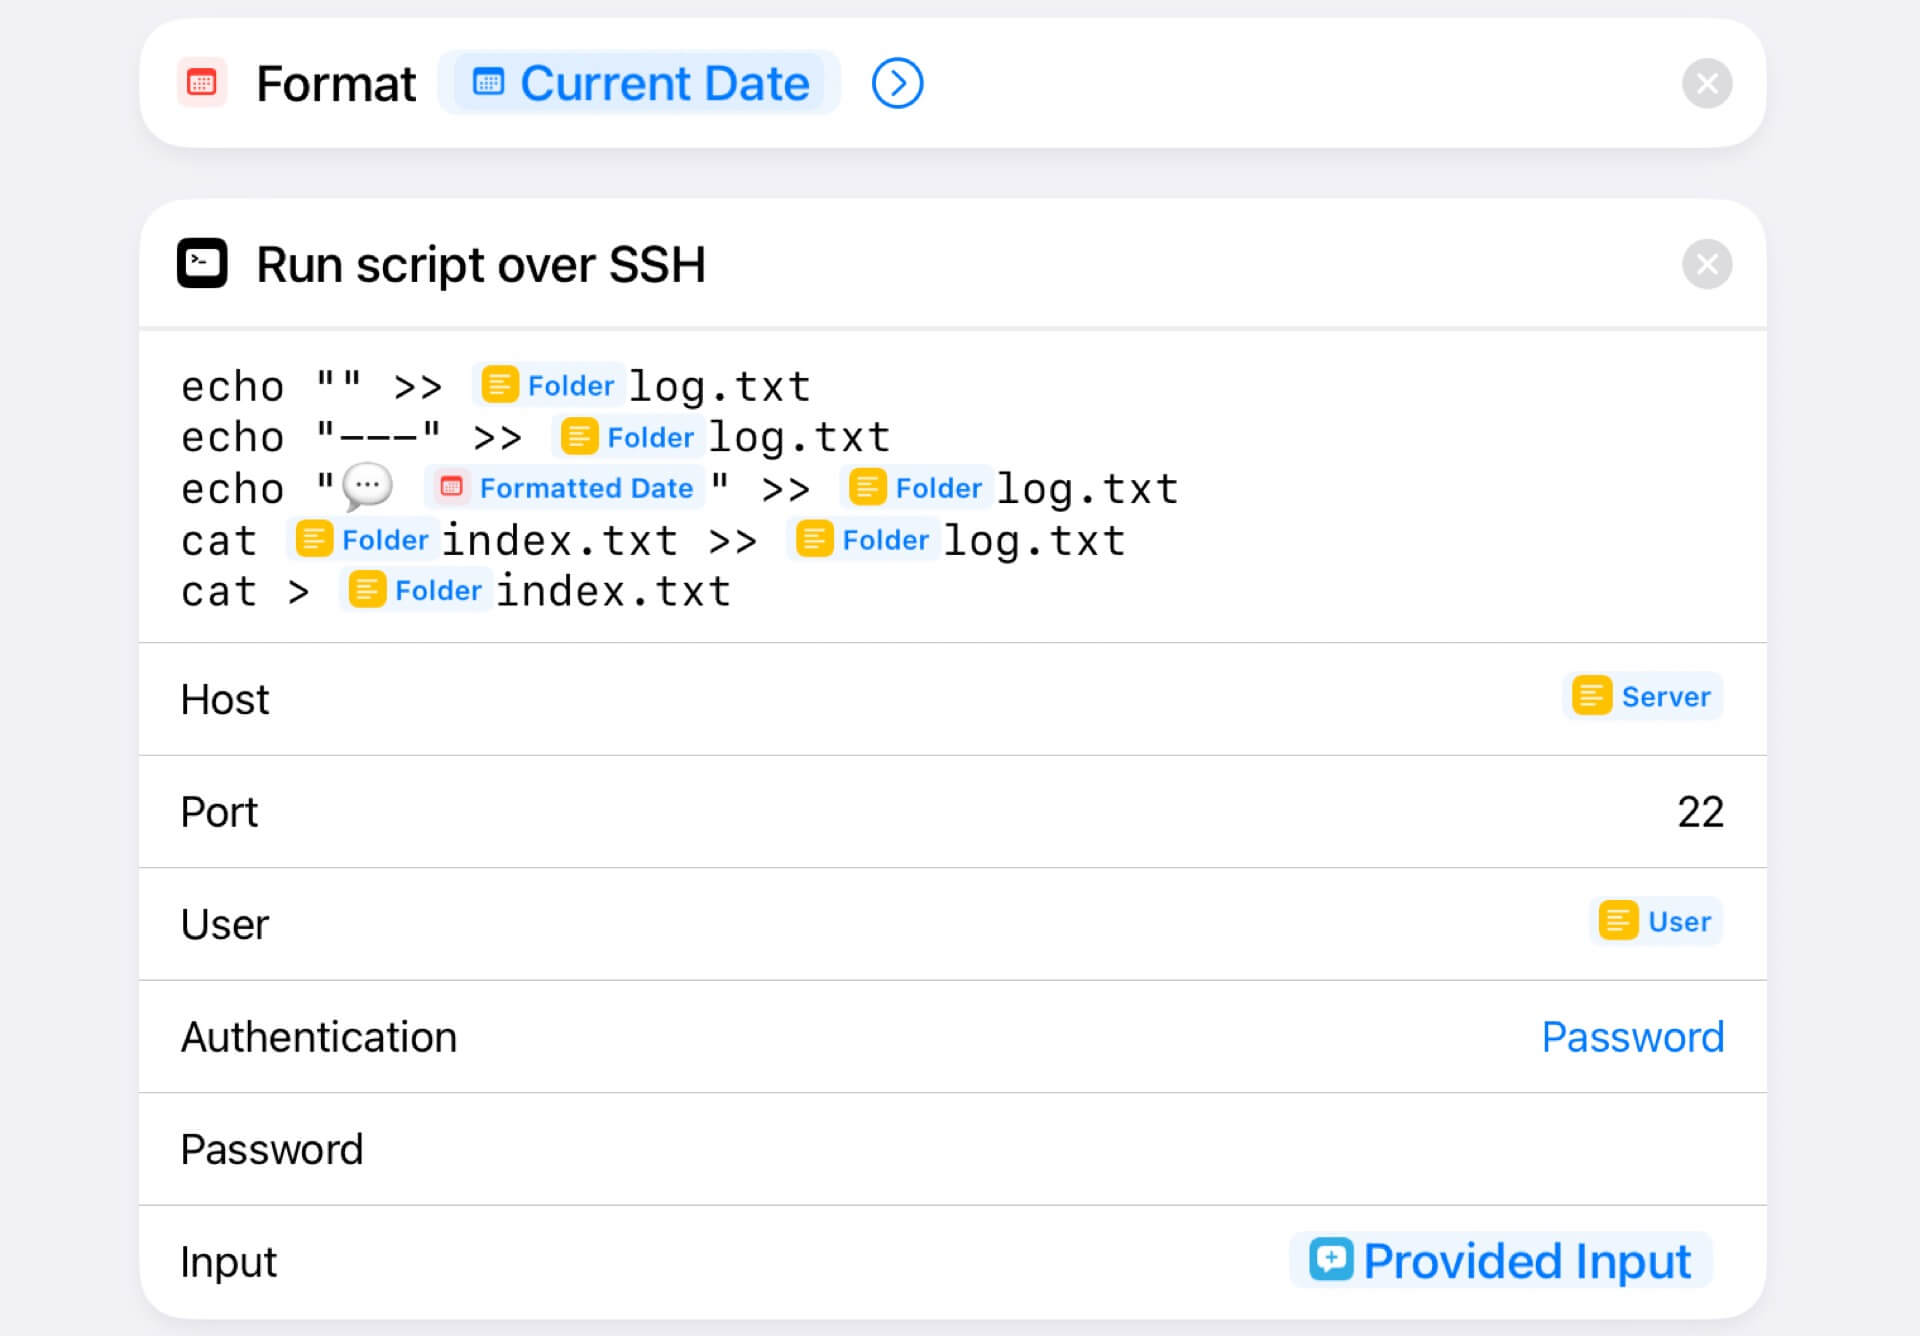
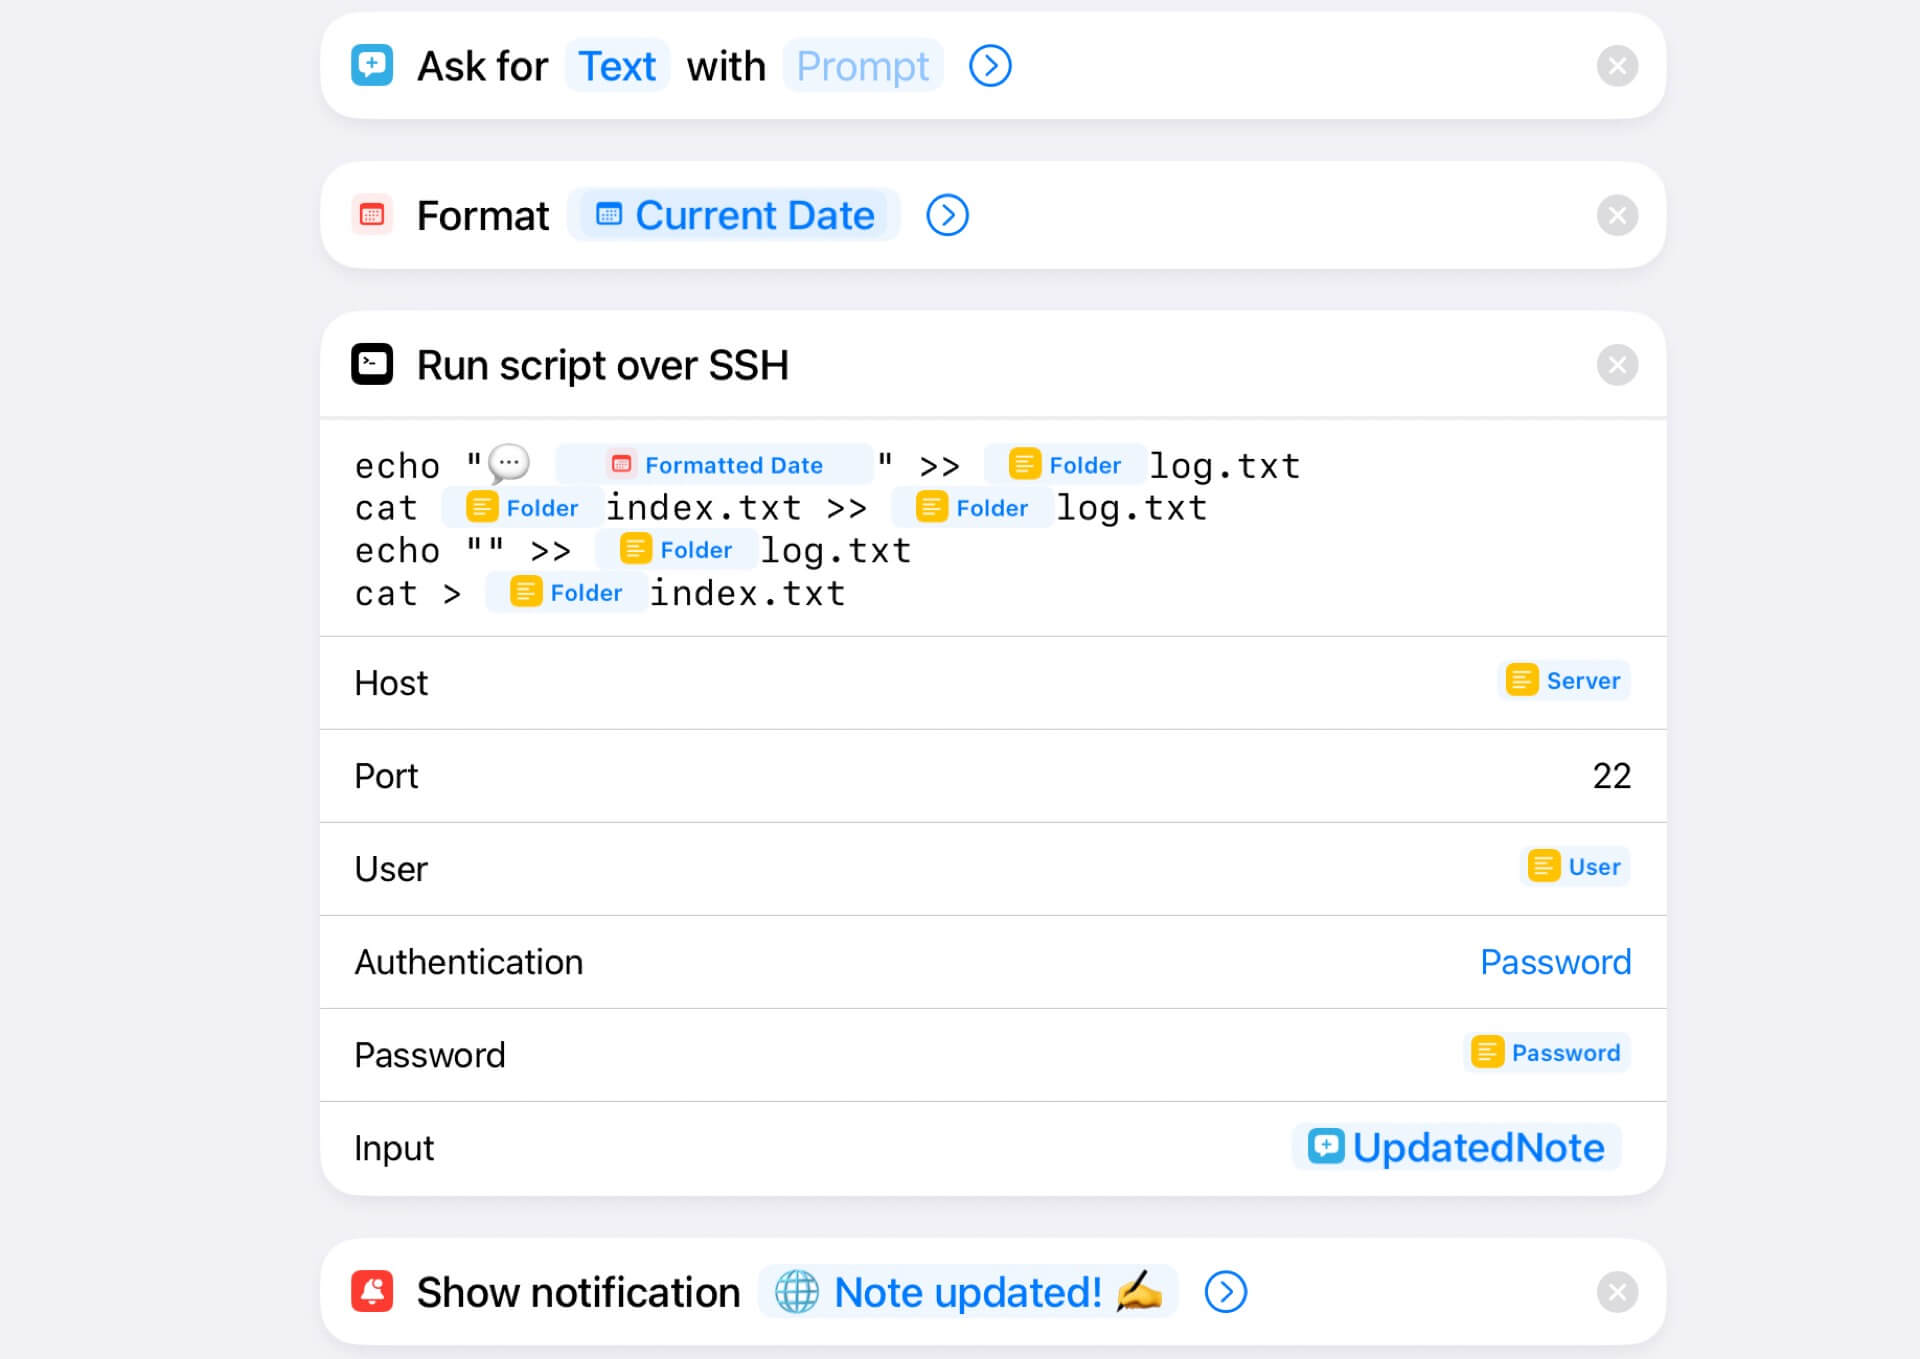
watchnote

diff --git a/en/_posts/2023-12-07-watchnote.md b/en/_posts/2023-12-07-watchnote.md
@@ -1,0 +1,98 @@
+---
+tags: [applewatch,shortcuts]
+cover: "watchnote.jpg"
+---
+
+# WatchNote Siri Shortcut - how to add and view a note on Apple Watch Ultra without an iPhone!
+
+I love the big screen of my new [Apple Watch Ultra 2](/ultra/) and now that I have [Action button](/action/) configured on it, I was thinking of more things I could do with it. I already figured out [how to add a task to Nozbe](/nozbe-add/) but sometimes I just needed to add a note quickly and later retrieve it, without using my [iPhone 15 Pro](/iphone15/). Here's what I came up with:
+
+<!--More-->
+
+![{{ page.title }}](/img/{{ page.cover }})
+
+* TOC
+{:toc}
+
+## What does a "WatchNote" Siri Shortcut do?
+
+This is my use case - I want to be able to launch the Shortcut and **it should show me my note right away**. Only then I'd either be done with it or I can choose to edit this note (and the old note is being copied to a log of old notes) which I can always retrieve later if I want to.
+
+Why do I need this?
+
+- As I was traveling I noticed that very often at AirBNB they'd give us a PIN code to our apartment. I wanted to save it and be able to check it on the watch right before opening the door.
+- As I was [running](/sports/) only with the watch I wanted to be able to just add a mental note if I had a new idea or maybe when I was listening to [a book](/books/) I could quickly dictate a book note 📝 
+- Whenever I wanted to just save somewhere a non-actionable item, I wanted to be able to do that right from the watch quickly.
+
+## Issues of saving a note on the watch: NO Notes app and NO file storage easily available…
+
+That's a problem - there's no apparent way to save things on the [Apple Watch](/applewatch/) easily. The Apple Notes app is not there (Why Apple? Why?) and accessing iCloud files only happens through the [iPhone](/iphone/) nearby and cannot be done directly. And it's slow anyway. And I wanted the note to be retrieved and stored even when I was running without my iPhone.
+
+The only solution I found was a similar thing I did [with adding tasks to Nozbe](/nozbe-add/), the Shortcut must save a note directly on the Internet without going through any local storage on the watch (not accessible) or the iPhone (not always available). However, the only way to save files with Siri Shortcuts directly on the Internet is by using **SSH connection**, which makes it a very geeky solution.
+
+## SSH connection to the rescue - if you have one!
+
+Luckily I'm a computer geek and a programmer (I wrote the first version of [Nozbe][n], after all!) so this is how I solved the problem:
+
+### Step 1 - create an SSH account on my server
+
+We run quite a few servers at [Nozbe](/nozbe/) and we have one that's really a support server for our mail and some additional mini apps we use internally. So I set up a new account there just for this. I logged in to the WHM panel, created a new account (`List accounts > Create New Account`) with a new user name and a long password and made sure I enabled SSH on it (`Account Functions > Modify Account > Shell Access`).
+
+I've given this account a subdomain and enabled SSL on it. This way I can securely retrieve information from it via a simple web protocol.
+
+### Step 2 - create a simple index.html page
+
+I created a [simple HTML page](/txt/watchnote-index.txt){:target='_blank'} that redirects to this blog.
+
+My note should be accessible from the Internet but not by anyone so I needed to create a `.htaccess` file that allows the HTML page to be displayed but the **text notes** only to be viewed by authenticated users. This way even if you know the address of my note, you cannot view it without providing a username and password.
+
+### Step 3 - secure the directory and create unique user name
+
+To secure the directory, [I created this .htaccess file](/txt/watchnote-htaccess.txt){:target='_blank'} with this condition to secure all text files so that nobody without credentials can read them:
+
+{% highlight shell %}
+<FilesMatch "(?i)\.txt$">
+AuthType Basic
+AuthName "My page is password protected!"
+AuthUserFile /home/username/.htpasswd
+Require valid-user
+</FilesMatch>
+{% endhighlight %}
+
+Now I had to log in via SSH to the server and set up the secure user name and password to be able to access the text files from the web. I used this command:
+
+`htpasswd -c username`
+
+…and set up the password. In both cases you should change "username" for your actual user name.
+
+Later in the Siri Shortcut I needed to put the `username:password` like that (joint by the colon sign) and encode this with `base64` encoding and then send the `Authorization` header with `Basic EncodedUsernameAndPassword`. I explain it in the Shortcut further down.
+
+## Get the Siri Shortcut to add and view notes on your Apple Watch!
+
+If all that doesn't scare you and you're geeky enough to set it all up, then by all means do that and then get the Siri Shortcut:
+
+### [WatchNote Siri Shortcut][w]
+
+Additionally for this Siri Shortcut to work, you have to enable SSH (scripting) in Siri Shortcuts (`Settings > Shortcuts > Advanced > Allow Running Scripts`).
+
+What this Siri Shortcut does is this:
+
+- First it gets the file `index.txt` from your server using your WWW address and authentication mentioned above and displays contents of the note. This is the fastest way to get a piece of text from the Internet on to your Apple Watch.
+- It shows you the note on the watch.
+- If you hit "Cancel", the shortcut stops 🛑.
+- If you hit "OK", it displays a menu with two options: "Edit note" or "View log".
+- When you hit "Edit note" you can edit or write/dictate a new note completely. It then adds the contents of old `index.txt` to your `log.txt` file and overwrites the `index.txt` file with the text you just dictated.
+- When you choose "View log" - it shows you the contents of your  `log.txt` file on your server, which contains all past notes you've added.
+
+![{{ page.title }} ssh](/img/watchnote-ssh.jpg)
+
+## Enjoy taking notes on the Apple Watch!
+
+I've added this shortcut to the [Action Button](/action/) on my [Apple Watch Ultra 2](/ultra/) but even on a normal watch you can just invoke this with Siri or with a complication of Siri Shortcuts on a watch face.
+
+I hope in the future such Shortcut would be easier to do than what I've prepared here and if you can't get this to work, [make sure to let me know on Mastodon and I'll try to help you](/gratis?to=ma/).
+
+[w]: https://www.icloud.com/shortcuts/4fd6a1173ba64c21ba7b3b1dba736e9a
+
+[n]: https://michael.gratis/nozbe
+[np]: https://michael.gratis/nozbepersonal

diff --git a/en/_posts/2023-11-28-action.md b/en/_posts/2023-11-28-action.md
@@ -51,6 +51,8 @@ I decided to put [add task to Nozbe via API Shortcut][na] so that I can quickly 
 
 As a [triathlete](/tri15/) and [tennis player](/tennis/) I added my favorite workouts in that order: walk, run, cycle, tennis and swim. This way my muscle memory always knows where to find my favorite workouts!
 
+**Update as of December 2023**: I've prepared a special [Watchnote - Siri Shortcut to be able to add a note on the Apple Watch](/watchnote/) and I've added it my *Action Button menu* on both Watch and iPhone.
+
 ### iPhone 15 Pro menu: Nozbe (duh!), Journaling and more!
 
 On the iPhone my menu first has the Camera app - so I can quickly take a picture or a selfie. These are actually two separate menu items. Later I added the following shortcuts:

diff --git a/en/test.md b/en/test.md
@@ -53,9 +53,9 @@ Do you want **Markdown** to be used *everywhere*?
 
 ## Another test
 
-<code><pre>
+<code>
 I'm the founder of **Nozbe** which you can find [here](https://nozbe.com/) - it's *free*!
-</pre></code>
+</code>
 
 Or:
 
@@ -73,18 +73,6 @@ AuthUserFile /home/username/.htpasswd
 Require valid-user
 </FilesMatch>
 ```
-
-Or better yet:
-
-~~~
-<FilesMatch "(?i)\.txt$">
-AuthType Basic
-AuthName "My page is password protected!"
-AuthUserFile /home/username/.htpasswd
-Require valid-user
-</FilesMatch>
-~~~
-
 or
 
 {% highlight shell %}

diff --git a/README.md b/README.md
@@ -120,3 +120,5 @@ Code is here
 [Kramdown reference](https://kramdown.gettalong.org/quickref.html)
 
 [Liquid sandbox](https://jumpseller.com/support/liquid-sandbox/)
+
+[Types of code snippets](https://github.com/rouge-ruby/rouge/wiki/List-of-supported-languages-and-lexers)
